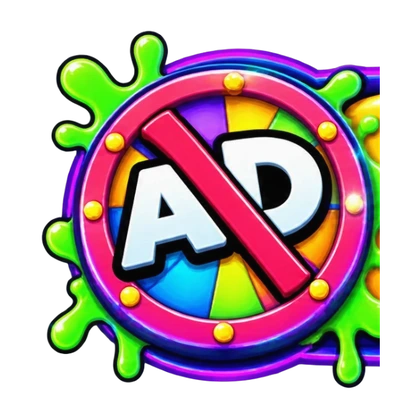
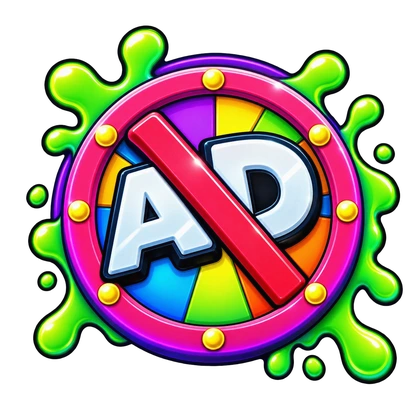
Actualizar ícono de Sin publicidad y bump de caché (#548)
* Sacar los bypasses de prueba de Gonzalo

Ahora que el tutorial esta activo para todos, se sacan los dos
casos especiales que le mostraban siempre la bienvenida y le
salteaban el limite diario de Partida Diaria a esGonzalo() para
poder probar. Su cuenta pasa a comportarse como la de cualquier
jugador. Se borra esGonzalo() por quedar sin uso.

Claude-Session: https://claude.ai/code/session_016Hpyg3vebFKwHSnTQ2rALx

* Usar el mockup de Gonzalo como imagen real del popup de bienvenida

Se procesa la imagen subida al Main (convertida a webp, ~120KB) y
se usa como fondo del popup #capaBienvenida, con tres botones
transparentes posicionados sobre ella (medidos por color en la
imagen original) para que "Empezar tutorial", "Jugar sin tutorial"
y la X de cerrar sigan funcionando igual que antes.

Claude-Session: https://claude.ai/code/session_016Hpyg3vebFKwHSnTQ2rALx

* Toss-Up: avisar cuando el otro te ganó de mano al resolver

Revisando la carrera de "Resolver" en la Prueba de Velocidad
encontré un camino silencioso: si el estado local (V) todavía no
se había actualizado con que el rival ya apretó primero, pausarToss()
fallaba y el clic quedaba sin ningún feedback — daba la sensación
de que el juego se trancó. En local (mismo dispositivo) casi nunca
pasa porque todo corre sincrónico, pero en partidas online (host/guest
por MQTT) el mensaje del rival puede llegar justo en el medio. Ahora
ese caso también muestra "Fulano apretó primero. Esperá tu turno."
[…]

diff --git a/sw.js b/sw.js
@@ -1,4 +1,4 @@
-const CACHE_NAME = "gya-cache-v22";
+const CACHE_NAME = "gya-cache-v23";
 const APP_SHELL = ["./", "./index.html", "./manifest.json", "./icono-192.png", "./icono-512.png", "./assets/logo.webp"];
 
 self.addEventListener("install", (e) => {
